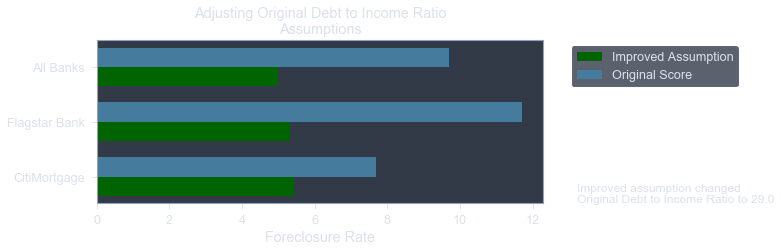
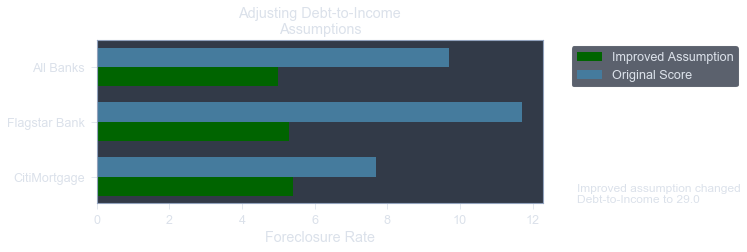
Regular updates

diff --git a/Bad_Bank_Behavior/index.html b/Bad_Bank_Behavior/index.html
@@ -204,7 +204,7 @@ if (currentTheme) {
         </div>
 		<br><br>
             <p>
-                Michigan, Arizona, Southern California, and the New York-area contain some of the highest loans destined for foreclosure.  The worst is Las Vegas and most of Florida.
+                Michigan, Arizona, Southern California, and the New York-area contain some of the highest loans destined for foreclosure.  The worst are Las Vegas and most of Florida.
             </p>        
         <div class="row">
             <div class="column5">
@@ -236,16 +236,36 @@ if (currentTheme) {
             <h1 id="Methodology">Methodology</h1>
 		<br><br>
             <p>
-                Text...
+                The main challenge of modelling mortgage foreclosures is that they represent a rare event – defined as a dichotomous variable in which an occurrence of the event is low relative to cases in which that event could occur.  Consequently, counts in the numerator of the rate are expected to be small by comparison to the denominator.  Such small numerators in a target variable are known to create higher bias in estimation and, when forming a proportion, higher variance (King & Zeng, 2001).  In laymen terms, classification models are likely to become better at predicting non-occurrences than occurrences simply because there are more examples of non-occurrences to learn from.  This results in models over-predicting non-occurrences.  In very imbalanced datasets, this can result in zero predictions of an occurrence.
+                <br><br>
+                Further, the features in the Fannie Mae do not correlate well with foreclosures.  To this end, I linked many features from other data.  Still, it remains is difficult to predict foreclosures without overfitting the training data.  
+                <br><br>
+                To solve these two problems, I use two primary ensembling techniques.  The first rebalances the data to augment foreclosure predictions.  The second uses vote ensembling to increase generalization of each model’s results.
             </p>        
 		<br><br>
             <h6>Balancing Predictions</h6>
             <p>
-                Text...
+                The chart below displays a hypothetical dataset in which the target variable occurs at a rate of 20%.  In order to ensure a predictive model remains balanced in its learning from occurrences and non-occurrences, an analyst can use an artificial intervention to balance the classes.  One approach is to draw small samples with balanced classes.  These samples produce relatively weak and simple models, which are then ensembled into stronger predictions.                
+                <br><br>
+                Step 2 displays how this example data could be sampled using an ensembling technique.  The analyst converts the training data into four balanced datasets in which the target variable occurs at a rate of 50%.  These samples can encompass the full training data and yet each model learns from the same number of occurrences as it does non-occurrences.  Ensembling these simpler models involves averaging their predicted probabilities and then converting those predicted probabilities into a dichotomous result using a classification threshold (i.e., the hardlimit).  Finally, that prediction model is used to predict on the validation data for model evaluation.  The validation data remains in its raw form (i.e., without balanced classes) to evaluate these predictions as with natural data (i.e., no analyst interventions).	
+                <br><br>
+                While this approach overcomes the issue of over-predicting non-occurrence, it is prone to over-predicting occurrences.  By over-predicting the rare events, the ensembled model is shown to know what situations lead to preventing or causing a mortgage foreclosure, although it is biased towards predicting mortgage foreclosures at higher rates.  Fortunately, this bias can be minimized by optimizing the classification threshold.  
+                <br><br>
+                As shown in Step 3, the testing data remains imbalanced and the predicted probability predictions are equally likely to be above or below 0.5 – the standard classification threshold.  Because the analyst intervened and forced balanced classes in the training data, the analyst should compensate by increasing the threshold to an appropriate level.  In this example, the analyst could choose a 0.8 threshold, which would provide perfect predictions on the test set.  Note, this decision is made on validation data, separate from the testing data which will make the final model evaluations.
+                <br><br>
+                In modeling mortgage foreclosures, the classification threshold that maximizes F1 score is selected as this is the best at balancing recall and precision.  The results are quite poor: one of the 3 first models on all banks resulted in only 0.24 precision and, despite the stricter threshold, it predicted 19% foreclosures when the testing data contained only 10% foreclosures.
             </p>           
         <div class="row">
             <div class="column1">
                 <img  id="Model_Ensembling_Balancing" src="Photos/Model_Ensembling_Balancing.png" alt="Model_Ensembling_Balancing" style="width:100%" />        
+            </div>
+        </div>
+        <div class="row">
+            <div class="column66">
+                <img  id="All_Banks_RFC2_Threshold_Line.png" src="Photos/All_Banks_RFC2_Threshold_Line.png" alt="Thresholds" style="vertical-align: middle; width:100%" />
+            </div>
+            <div class="column33">
+                <img  id="First_Model_Table" src="Photos/First_Model_Table.png" alt="First_Model_Table" style="width:100%" />        
             </div>
         </div>
 		<br><br>            
@@ -259,20 +279,20 @@ if (currentTheme) {
                 <img  id="Model_Ensembling_Architecture" src="Photos/Model_Ensembling_Architecture.png" alt="Model_Ensembling_Architecture" style="width:100%" />        
             </div>
         </div>
+        <div class="row">
+            <div class="column66">
+
+            </div>
+            <div class="column33">
+                <img  id="Final_Model_Table" src="Photos/Final_Model_Table.png" alt="Final_Model_Table" style="width:100%" />        
+            </div>
+        </div>        
 		<br><br>            
 
             <h6>Model Results</h6>
             <p>
                 Text...
             </p>   
-        <div class="row">
-            <div class="column66">
-                <img  id="All_Banks_RFC1_Threshold_Line.png" src="Photos/All_Banks_RFC1_Threshold_Line.png" alt="Thresholds" style="vertical-align: middle; width:100%" />
-            </div>
-            <div class="column33">
-                <img  id="Final_Model_Table" src="Photos/Final_Model_Table.png" alt="Final_Model_Table" style="width:100%" />        
-            </div>
-        </div>        
 		<br><br>
         
         
@@ -311,7 +331,7 @@ if (currentTheme) {
         </div>
 		<br><br>
 
-            <h2 id="Debt-to-Income">Debt to Income Ratio</h2>
+            <h2 id="Debt-to-Income">Debt-to-Income Ratio</h2>
 		<br><br>
             <h6>Data Mining</h6>
             <p>
@@ -343,7 +363,7 @@ if (currentTheme) {
         </div>
 		<br><br>
 
-            <h2 id="Loan-to-Value">Loan to Value Ratio</h2>
+            <h2 id="Loan-to-Value">Loan-to-Value Ratio</h2>
 		<br><br>
             <h6>Data Mining</h6>
             <p>
@@ -403,6 +423,19 @@ if (currentTheme) {
                 <img  id="Predicted_MHI_Worst_Bar" src="Photos/Predicted_MHI_Worst_Bar.png" alt="Predicted_MHI_Worst_Bar" style="width:100%" />        
             </div>
         </div>
+            <h6>Best/Worst-Case Scenerios</h6>
+            <p>
+                Text...
+            </p>
+        <div class="row">
+            <div class="column33">
+                <img  id="Predicted_MHI_Table_Weakest" src="Photos/Predicted_MHI_Table_Weakest.png" alt="Predicted_MHI_Table_Weakest" style="vertical-align: middle; width:100%" />
+            </div>
+            <div class="column66">
+                <img  id="Predicted_MHI_Best_Bar_Weakest" src="Photos/Predicted_MHI_Best_Bar_Weakest.png" alt="Predicted_MHI_Best_Bar_Weakest" style="width:100%" />        
+                <img  id="Predicted_MHI_Worst_Bar_Weakest" src="Photos/Predicted_MHI_Worst_Bar_Weakest.png" alt="Predicted_MHI_Worst_Bar_Weakest" style="width:100%" />        
+            </div>
+        </div>
 		<br><br>
 
             <h2 id="Loan-Change">Loan Change Ratio</h2>
@@ -413,11 +446,20 @@ if (currentTheme) {
             </p>
         <div class="row">
             <div class="column5">
-                <img  id="LC_Best_Density" src="Photos/LC_Best_Density.png" alt="LC_Best_Density" style="vertical-align: middle; width:100%" />
-                <img  id="LC_Worst_Density" src="Photos/LC_Worst_Density.png" alt="LC_Worst_Density" style="vertical-align: middle; width:100%" />
+                <img  id="LC1_Best_Density" src="Photos/LC1_Best_Density.png" alt="LC1_Best_Density" style="vertical-align: middle; width:100%" />
+                <img  id="LC1_Worst_Density" src="Photos/LC1_Worst_Density.png" alt="LC1_Worst_Density" style="vertical-align: middle; width:100%" />
             </div>
             <div class="column5">
-                <img  id="LC_Bar" src="Photos/LC_Bar.png" alt="LC_Bar" style="width:100%" />        
+                <img  id="LC1_Bar" src="Photos/LC1_Bar.png" alt="LC1_Bar" style="width:100%" />        
+            </div>
+        </div>
+        <div class="row">
+            <div class="column5">
+                <img  id="LC5_Best_Density" src="Photos/LC5_Best_Density.png" alt="LC5_Best_Density" style="vertical-align: middle; width:100%" />
+                <img  id="LC5_Worst_Density" src="Photos/LC5_Worst_Density.png" alt="LC5_Worst_Density" style="vertical-align: middle; width:100%" />
+            </div>
+            <div class="column5">
+                <img  id="LC5_Bar" src="Photos/LC5_Bar.png" alt="LC5_Bar" style="width:100%" />        
             </div>
         </div>
 		<br><br>
@@ -427,11 +469,11 @@ if (currentTheme) {
             </p>
         <div class="row">
             <div class="column33">
-                <img  id="Predicted_LC_Table" src="Photos/Predicted_LC_Table.png" alt="Predicted_LC_Table" style="vertical-align: middle; width:100%" />
+                <img  id="Predicted_LC1_Table" src="Photos/Predicted_LC1_Table.png" alt="Predicted_LC1_Table" style="vertical-align: middle; width:100%" />
             </div>
             <div class="column66">
-                <img  id="Predicted_LC_Best_Bar" src="Photos/Predicted_LC_Best_Bar.png" alt="Predicted_LC_Best_Bar" style="width:100%" />        
-                <img  id="Predicted_LC_Worst_Bar" src="Photos/Predicted_LC_Worst_Bar.png" alt="Predicted_LC_Worst_Bar" style="width:100%" />        
+                <img  id="Predicted_LC1_Best_Bar" src="Photos/Predicted_LC1_Best_Bar.png" alt="Predicted_LC1_Best_Bar" style="width:100%" />        
+                <img  id="Predicted_LC1_Worst_Bar" src="Photos/Predicted_LC1_Worst_Bar.png" alt="Predicted_LC1_Worst_Bar" style="width:100%" />        
             </div>
         </div>
 		<br><br>
@@ -444,11 +486,20 @@ if (currentTheme) {
             </p>
         <div class="row">
             <div class="column5">
-                <img  id="LL_Best_Density" src="Photos/LL_Best_Density.png" alt="LL_Best_Density" style="vertical-align: middle; width:100%" />
-                <img  id="LL_Worst_Density" src="Photos/LL_Worst_Density.png" alt="LL_Worst_Density" style="vertical-align: middle; width:100%" />
+                <img  id="LL1_Best_Density" src="Photos/LL1_Best_Density.png" alt="LL1_Best_Density" style="vertical-align: middle; width:100%" />
+                <img  id="LL1_Worst_Density" src="Photos/LL1_Worst_Density.png" alt="LL1_Worst_Density" style="vertical-align: middle; width:100%" />
             </div>
             <div class="column5">
-                <img  id="LL_Bar" src="Photos/LL_Bar.png" alt="LL_Bar" style="width:100%" />        
+                <img  id="LL1_Bar" src="Photos/LL1_Bar.png" alt="LL1_Bar" style="width:100%" />        
+            </div>
+        </div>
+        <div class="row">
+            <div class="column5">
+                <img  id="LL5_Best_Density" src="Photos/LL5_Best_Density.png" alt="LL5_Best_Density" style="vertical-align: middle; width:100%" />
+                <img  id="LL5_Worst_Density" src="Photos/LL5_Worst_Density.png" alt="LL5_Worst_Density" style="vertical-align: middle; width:100%" />
+            </div>
+            <div class="column5">
+                <img  id="LL5_Bar" src="Photos/LL5_Bar.png" alt="LL5_Bar" style="width:100%" />        
             </div>
         </div>
 		<br><br>
@@ -458,15 +509,27 @@ if (currentTheme) {
             </p>
         <div class="row">
             <div class="column33">
-                <img  id="Predicted_LL_Table" src="Photos/Predicted_LL_Table.png" alt="Predicted_LL_Table" style="vertical-align: middle; width:100%" />
+                <img  id="Predicted_LL1_Table" src="Photos/Predicted_LL1_Table.png" alt="Predicted_LL1_Table" style="vertical-align: middle; width:100%" />
             </div>
             <div class="column66">
-                <img  id="Predicted_LL_Best_Bar" src="Photos/Predicted_LL_Best_Bar.png" alt="Predicted_LL_Best_Bar" style="width:100%" />        
-                <img  id="Predicted_LL_Worst_Bar" src="Photos/Predicted_LL_Worst_Bar.png" alt="Predicted_LL_Worst_Bar" style="width:100%" />        
+                <img  id="Predicted_LL1_Best_Bar" src="Photos/Predicted_LL1_Best_Bar.png" alt="Predicted_LL1_Best_Bar" style="width:100%" />        
+                <img  id="Predicted_LL1_Worst_Bar" src="Photos/Predicted_LL1_Worst_Bar.png" alt="Predicted_LL1_Worst_Bar" style="width:100%" />        
+            </div>
+        </div>
+            <h6>Best/Worst-Case Scenerios</h6>
+            <p>
+                Text...
+            </p>
+        <div class="row">
+            <div class="column33">
+                <img  id="Predicted_LL1_Table_Weakest" src="Photos/Predicted_LL1_Table_Weakest.png" alt="Predicted_LL1_Table_Weakest" style="vertical-align: middle; width:100%" />
+            </div>
+            <div class="column66">
+                <img  id="Predicted_LL1_Best_Bar_Weakest" src="Photos/Predicted_LL1_Best_Bar_Weakest.png" alt="Predicted_LL1_Best_Bar_Weakest" style="width:100%" />        
+                <img  id="Predicted_LL1_Worst_Bar_Weakest" src="Photos/Predicted_LL1_Worst_Bar_Weakest.png" alt="Predicted_LL1_Worst_Bar_Weakest" style="width:100%" />        
             </div>
         </div>
 		<br><br>
-
             <h1 id="Conclusion">Conclusion</h1>
 		<br><br>
             <p>
